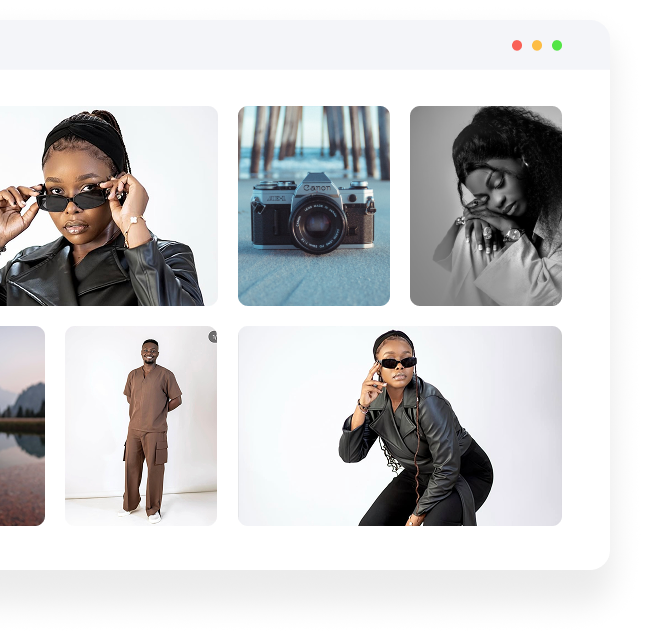
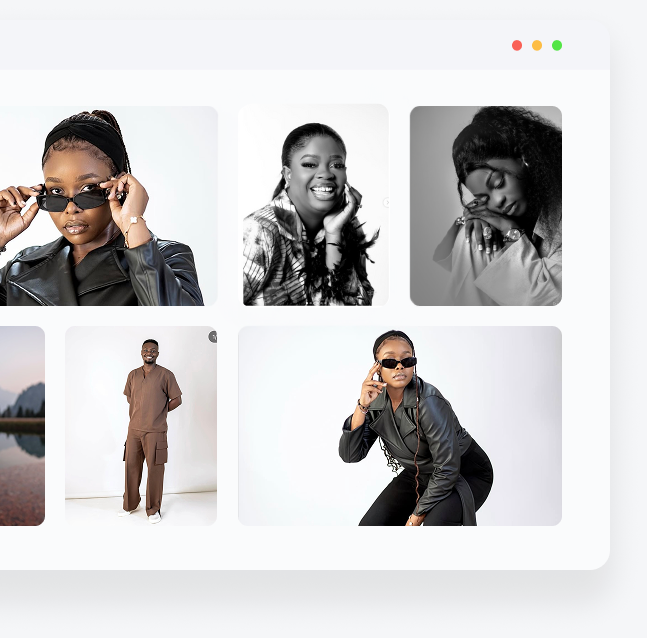
update photo

Changed region(s): [[0.3709, 0.1489, 0.6182, 0.5063]]

diff --git a/src/components/ExperimentsSection.tsx b/src/components/ExperimentsSection.tsx
@@ -1,5 +1,5 @@
 import React from "react";
-import groupImage from "../images/ExperimentsSection/Group 16.svg";
+import groupImage from "../images/ExperimentsSection/Group 16.png";
 import button from "../images/HeroSection/Group 3.svg";
 const ExperimentsSection = () => {
   const handleInstagramNav = () => {